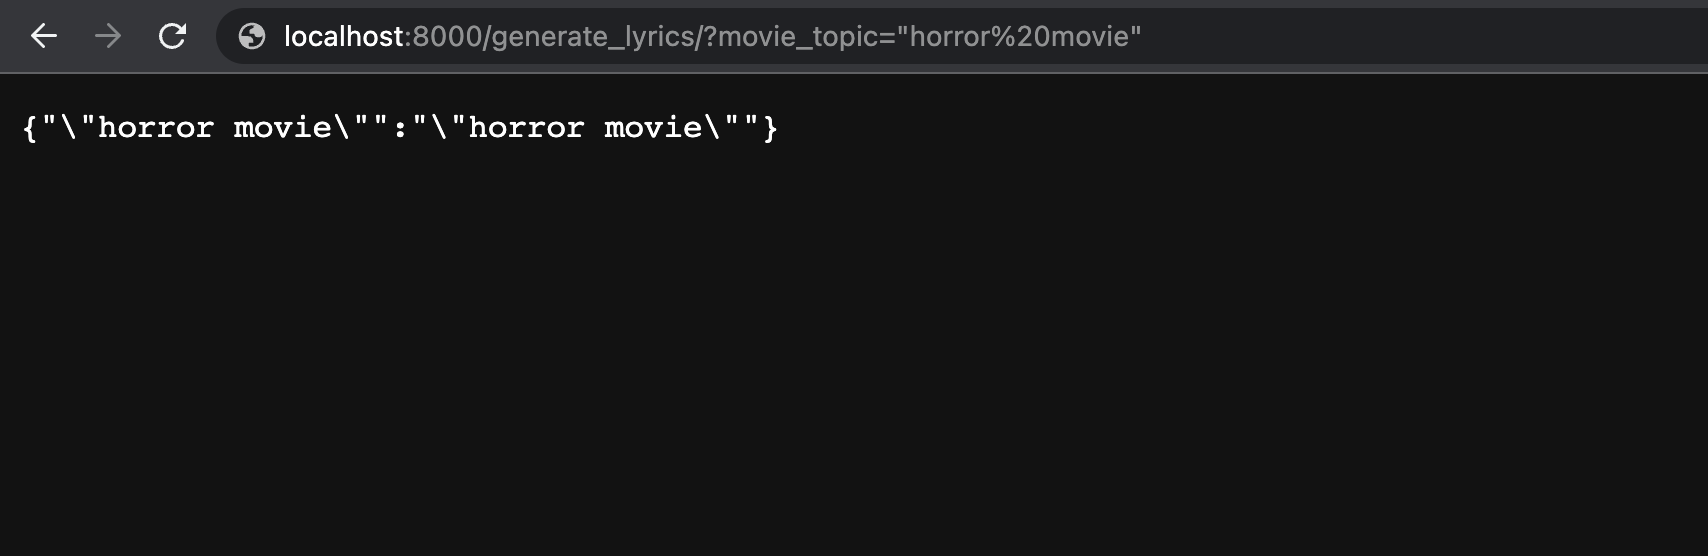
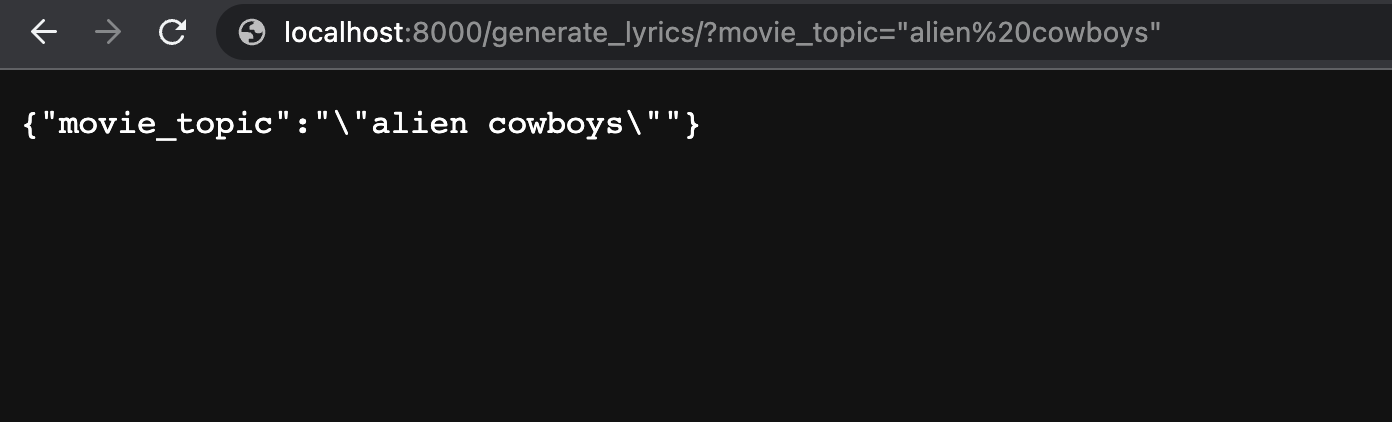
fixing typos in the fastapi guide and mentioning fastapi in the conclusion

Changed region(s): [[0.0, 0.0308, 1.0, 0.3389], [0.4943, 0.2773, 0.5251, 0.3081], [0.4634, 0.2464, 0.4943, 0.2773]]

diff --git a/docs/user_guide/LLMFlows with FastAPI.md b/docs/user_guide/LLMFlows with FastAPI.md
@@ -73,9 +73,11 @@ if __name__ == "__main__":
 ```
 
 ## Guide
-In this guide we are going to see how we can create a simple fastaAPI app and use LLMFlows to build a LLM-powered web app.
+In this guide, we are going to see how we can create a simple fastaAPI app and use 
+LLMFlows to build a LLM-powered web app.
 
-Let's start by creating a simple fastAPI app. To start we need to install `fastapi` and `uvicorn`.
+Let's start by creating our fastAPI app. For this, we need to install `fastapi` and 
+`uvicorn`.
 
 ```
 pip install fastapi uvicorn
@@ -91,7 +93,7 @@ app = FastAPI()
 
 @app.get("/generate_lyrics/")
 async def generate_lyrics(movie_topic: str):
-    return {"movie_topic"}
+    return {"movie_topic": movie_topic}
 
 if __name__ == "__main__":
     uvicorn.run(app, host="0.0.0.0", port=8000)
@@ -110,15 +112,24 @@ INFO:     Application startup complete.
 INFO:     Uvicorn running on http://0.0.0.0:8000 (Press CTRL+C to quit)
 ```
 
-Looking good! Our app is running. 
+It's looking good! Our app is running.
+
 Let's check what happens when we open it in the browser:
+
+```
+http://localhost:8000/generate_lyrics/?movie_topic=alien cowboys
+```
 
 ![Screenshot](assets/fastapi_guide_1.png)
 
-So far, so good! We made a simple fastAPI app with just a few lines of code and is able to return our query parameter. 
-Now let's add LLMFlow. 
+So far, so good! We made a simple fastAPI app with just a few lines of code, and it can 
+return our query parameter. 
+Now let's include LLMFlow. Let's create a `flow.py` file in the same directory. FastAPI 
+works great with async functions, so let's reuse our async flow example from our 
+previous guides. To make sure we use a new flow on each call, let's create a 
+`create_flow()` function in `flow.py`:
 
-Let's create a `flow.py` file in the same directory. FastAPI works great with async functions so let's reuse our async flow example from our guide. To make sure we use a new flow on each call, let's create a `create_flow()` function in `flow.py`:
+
 
 ```python
 from llmflows.flows import AsyncFlow, AsyncFlowStep, AsyncChatFlowStep
@@ -172,7 +183,7 @@ def create_flow():
     return soundtrack_flow
 ```
 
-Now we can import the flow in `app.py`. Here is how the final code looks like:
+Now we can import `create_flow()` in `app.py`. Here is what the final code looks like:
 
 ```python
 from fastapi import FastAPI
@@ -189,12 +200,28 @@ async def generate_lyrics(movie_topic: str):
 if __name__ == "__main__":
     uvicorn.run(app, host="0.0.0.0", port=8000)
 ```
-Now when we pass the `movie_topic` query paramter in the url, it will be used as an input to our `soundtrack_flow`. 
-Let's run it again and see what happens. 
+
+We've defined the `movie_topic` query parameter, and when we add it to the url, it 
+will be used as input to our `soundtrack_flow`. 
+Let's rerun the app and see what happens. 
 
 ```commandline
 python3 app.py
 ```
+Now we can go to the browser and try to generate the song lyrics of a movie about 
+"yoga":
+
+```
+http://localhost:8000/generate_lyrics/?movie_topic=yoga
+```
+
+![Screenshot](assets/fastapi_guide_2.png)
+
+This is a hadful!
+
+The `AsyncFlow` returned the final result and detailed runtime information for each 
+flowstep. In addition, `flowtep3` and `flowstep4` ran in parallel thanks to the async 
+implementation.
 
 ***
 [:material-arrow-left: Previous: Callbacks](Callbacks.md){ .md-button }

diff --git a/docs/user_guide/Conclusion.md b/docs/user_guide/Conclusion.md
@@ -1,7 +1,8 @@
 Thank you for taking the time to read our user guide! In this guide, we explored the 
 various abstractions provided by LLMFlows for building LLM-powered applications. We 
 covered the main concepts of `LLMs`, `Prompt Templates`, `Flows`, `FlowSteps`, 
-`VectorStores`, `VectorDocs`, and `Callbacks`.
+`VectorStores`, `VectorDocs`, and `Callbacks`. And in the end we built a simple fastAPI 
+app.
 
 LLMFlows allows developers to easily interact with LLMs such as OpenAI's ChatGPT and 
 utilize their text-generating capabilities. We learned how to configure LLM classes, 
@@ -24,8 +25,7 @@ We explored how FunctionalCallbacks can be utilized in flows to execute callback
 functions at different stages, enabling integrations with logging, tracing, or other 
 custom requirements.
 
-By summarizing the user guidelines and providing an overview of LLMFlows, we hope you 
-have gained a solid understanding of the library and its capabilities. We are grateful 
+We hope you've gained a solid understanding of the library and its capabilities. We are grateful 
 for your time and interest in LLMFlows, and we hope that it will empower you to build 
 incredible LLM-powered applications. Thank you!
 
